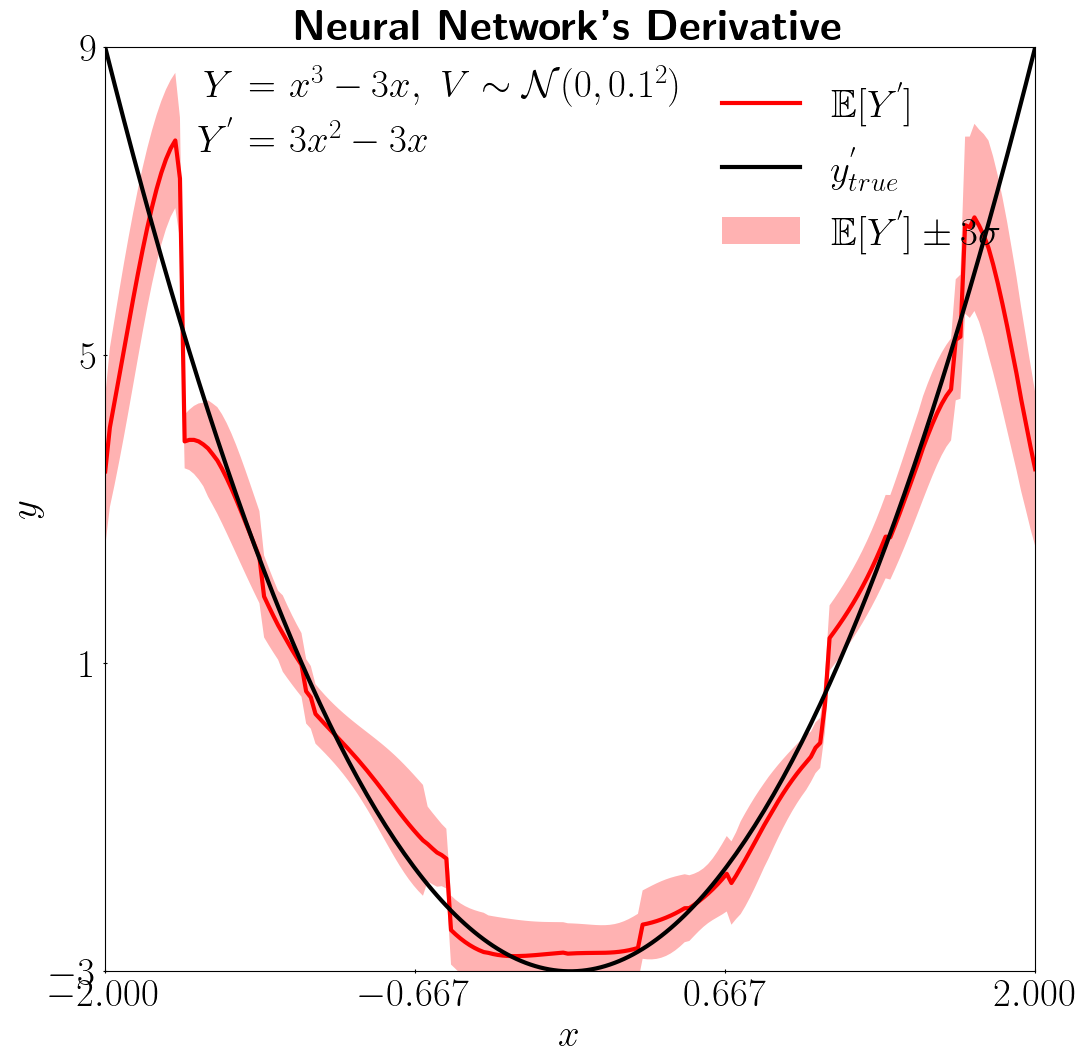
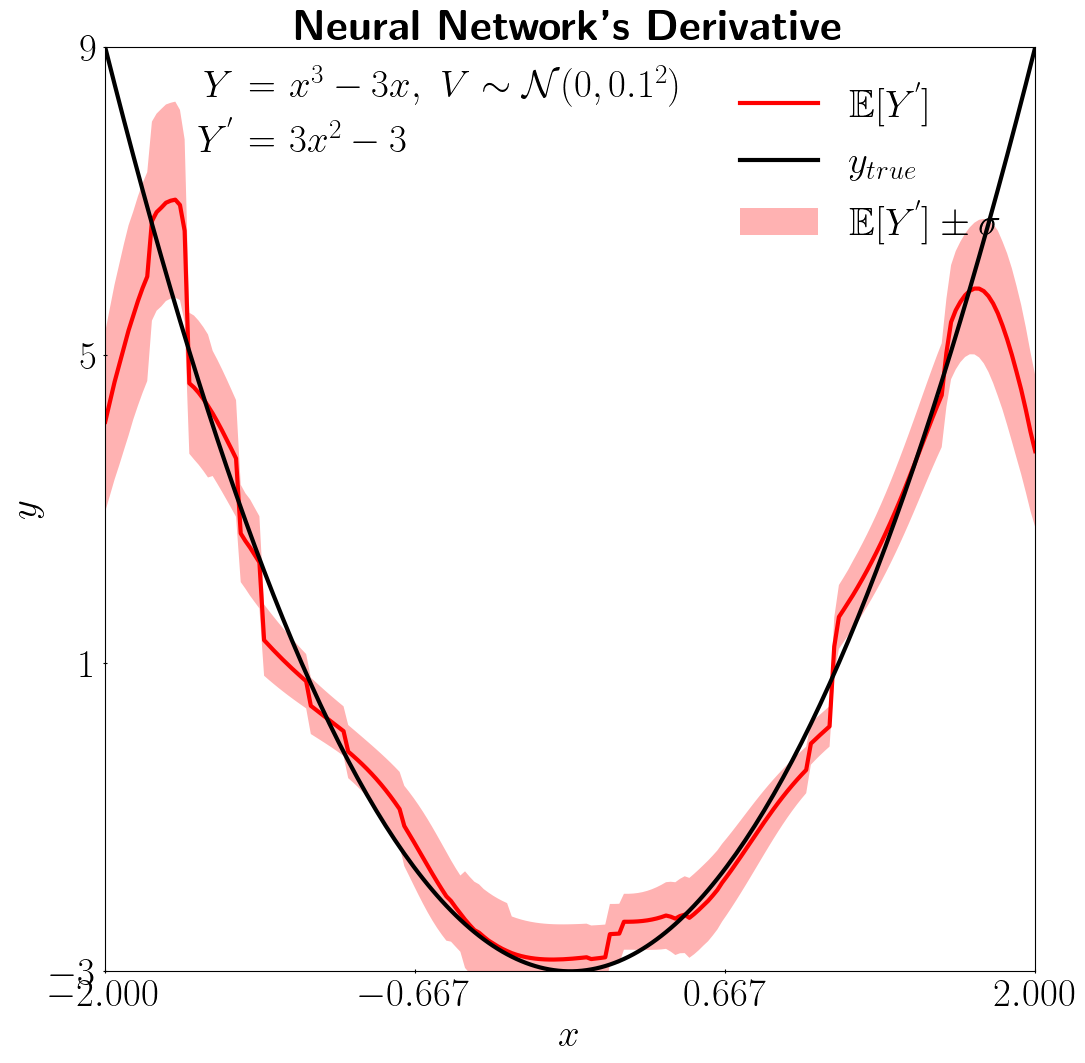
correct derivative equation

diff --git a/visualizer.py b/visualizer.py
@@ -116,7 +116,7 @@ class PredictionViz:
         self,
         task_name: str,
         data_name: str,
-        figsize: tuple = (8, 6),
+        figsize: tuple = (12, 12),
         fontsize: int = 28,
         lw: int = 3,
         ms: int = 10,
@@ -265,7 +265,7 @@ class PredictionViz:
                        direction="inout",
                        labelsize=self.fontsize)
         ax.legend(
-            loc="upper left",
+            loc="upper right",
             edgecolor="black",
             fontsize=1 * self.fontsize,
             ncol=1,
@@ -276,7 +276,7 @@ class PredictionViz:
         ax.set_xlim([min_x, max_x])
 
         # Save figure
-        plt.show()
+        # plt.show()
         saving_path = f"saved_results/pred_{label}_{self.data_name}.png"
         plt.savefig(saving_path, bbox_inches="tight")
         plt.close()
@@ -453,7 +453,7 @@ def noise_inference():
 def derivative():
     """The analytical formulation for output is defined following"""
     # Equation
-    eq = r"$\begin{array}{rcl}Y &=& x^3 - 3x, ~V\sim\mathcal{N}(0, 0.1^{2})\\[4pt]Y^{'} &=& 3x^2 - 3x\end{array}$"
+    eq = r"$\begin{array}{rcl}Y &=& x^3 - 3x, ~V\sim\mathcal{N}(0, 0.1^{2})\\[4pt]Y^{'} &=& 3x^2 - 3\end{array}$"
     x_eq = -1.6
     y_eq = 8
 
@@ -548,7 +548,7 @@ def time_series_forecasting():
 if __name__ == "__main__":
     #regression()
     #autoencoder()
-    input_uncertainty_prop()
+    #input_uncertainty_prop()
     #noise_inference()
-    #derivative()
+    derivative()
     #time_series_forecasting()

diff --git a/README.md b/README.md
@@ -28,7 +28,7 @@ Coming soon...
 
 Examples of [regression task](#regression-task) using the diagonal (top left) or full (top right) covariance modes for hidden layers, an example of heteroscedastic aleatory uncertainty inferrence (bottom left), and an example for the estimation of the derivative of a function modeled by a neural network (bottom right).
 <p align="center">
-  <img  align="left", src="./saved_results/pred_diag_toy_example_disp.png" width="340px">&emsp;&emsp;<img src="./saved_results/pred_full_cov_toy_example_disp.png" width="345px">&emsp;&emsp;<img  align="left", src="./saved_results/pred_hete_2_toy_example_disp.png" width="348px">&emsp;&emsp;<img src="./saved_results/pred_derivative_toy_example_disp.png" width="335px">
+  <img  align="left", src="./saved_results/pred_diag_toy_example_disp.png" width="340px">&emsp;&emsp;<img src="./saved_results/pred_full_cov_toy_example_disp.png" width="345px">&emsp;&emsp;<img  align="left", src="./saved_results/pred_hete_toy_example_disp.png" width="348px">&emsp;&emsp;<img src="./saved_results/pred_derivative_toy_example_disp.png" width="335px">
 </p>
 
 ## User Input
@@ -126,11 +126,11 @@ sigma_v:    1
 ```
 
 ## `pytagi` Installation 
-`pytagi` is a Python wrapper of C++/CUDA backend of TAGI method
+`pytagi` is a Python wrapper of C++/CUDA backend for TAGI method
 1. Clone this repository. Note that `git submodule` command allows downloading [pybind11](https://github.com/pybind/pybind11) which is the binding python package of C++/CUDA.
     ```
     git clone https://github.com/lhnguyen102/cuTAGI.git
-    cd cutagi
+    cd cuTAGI
     git submodule update --init --recursive
     ```
 2. Install [conda](https://docs.conda.io/projects/conda/en/latest/user-guide/install/index.html#system-requirements) 
